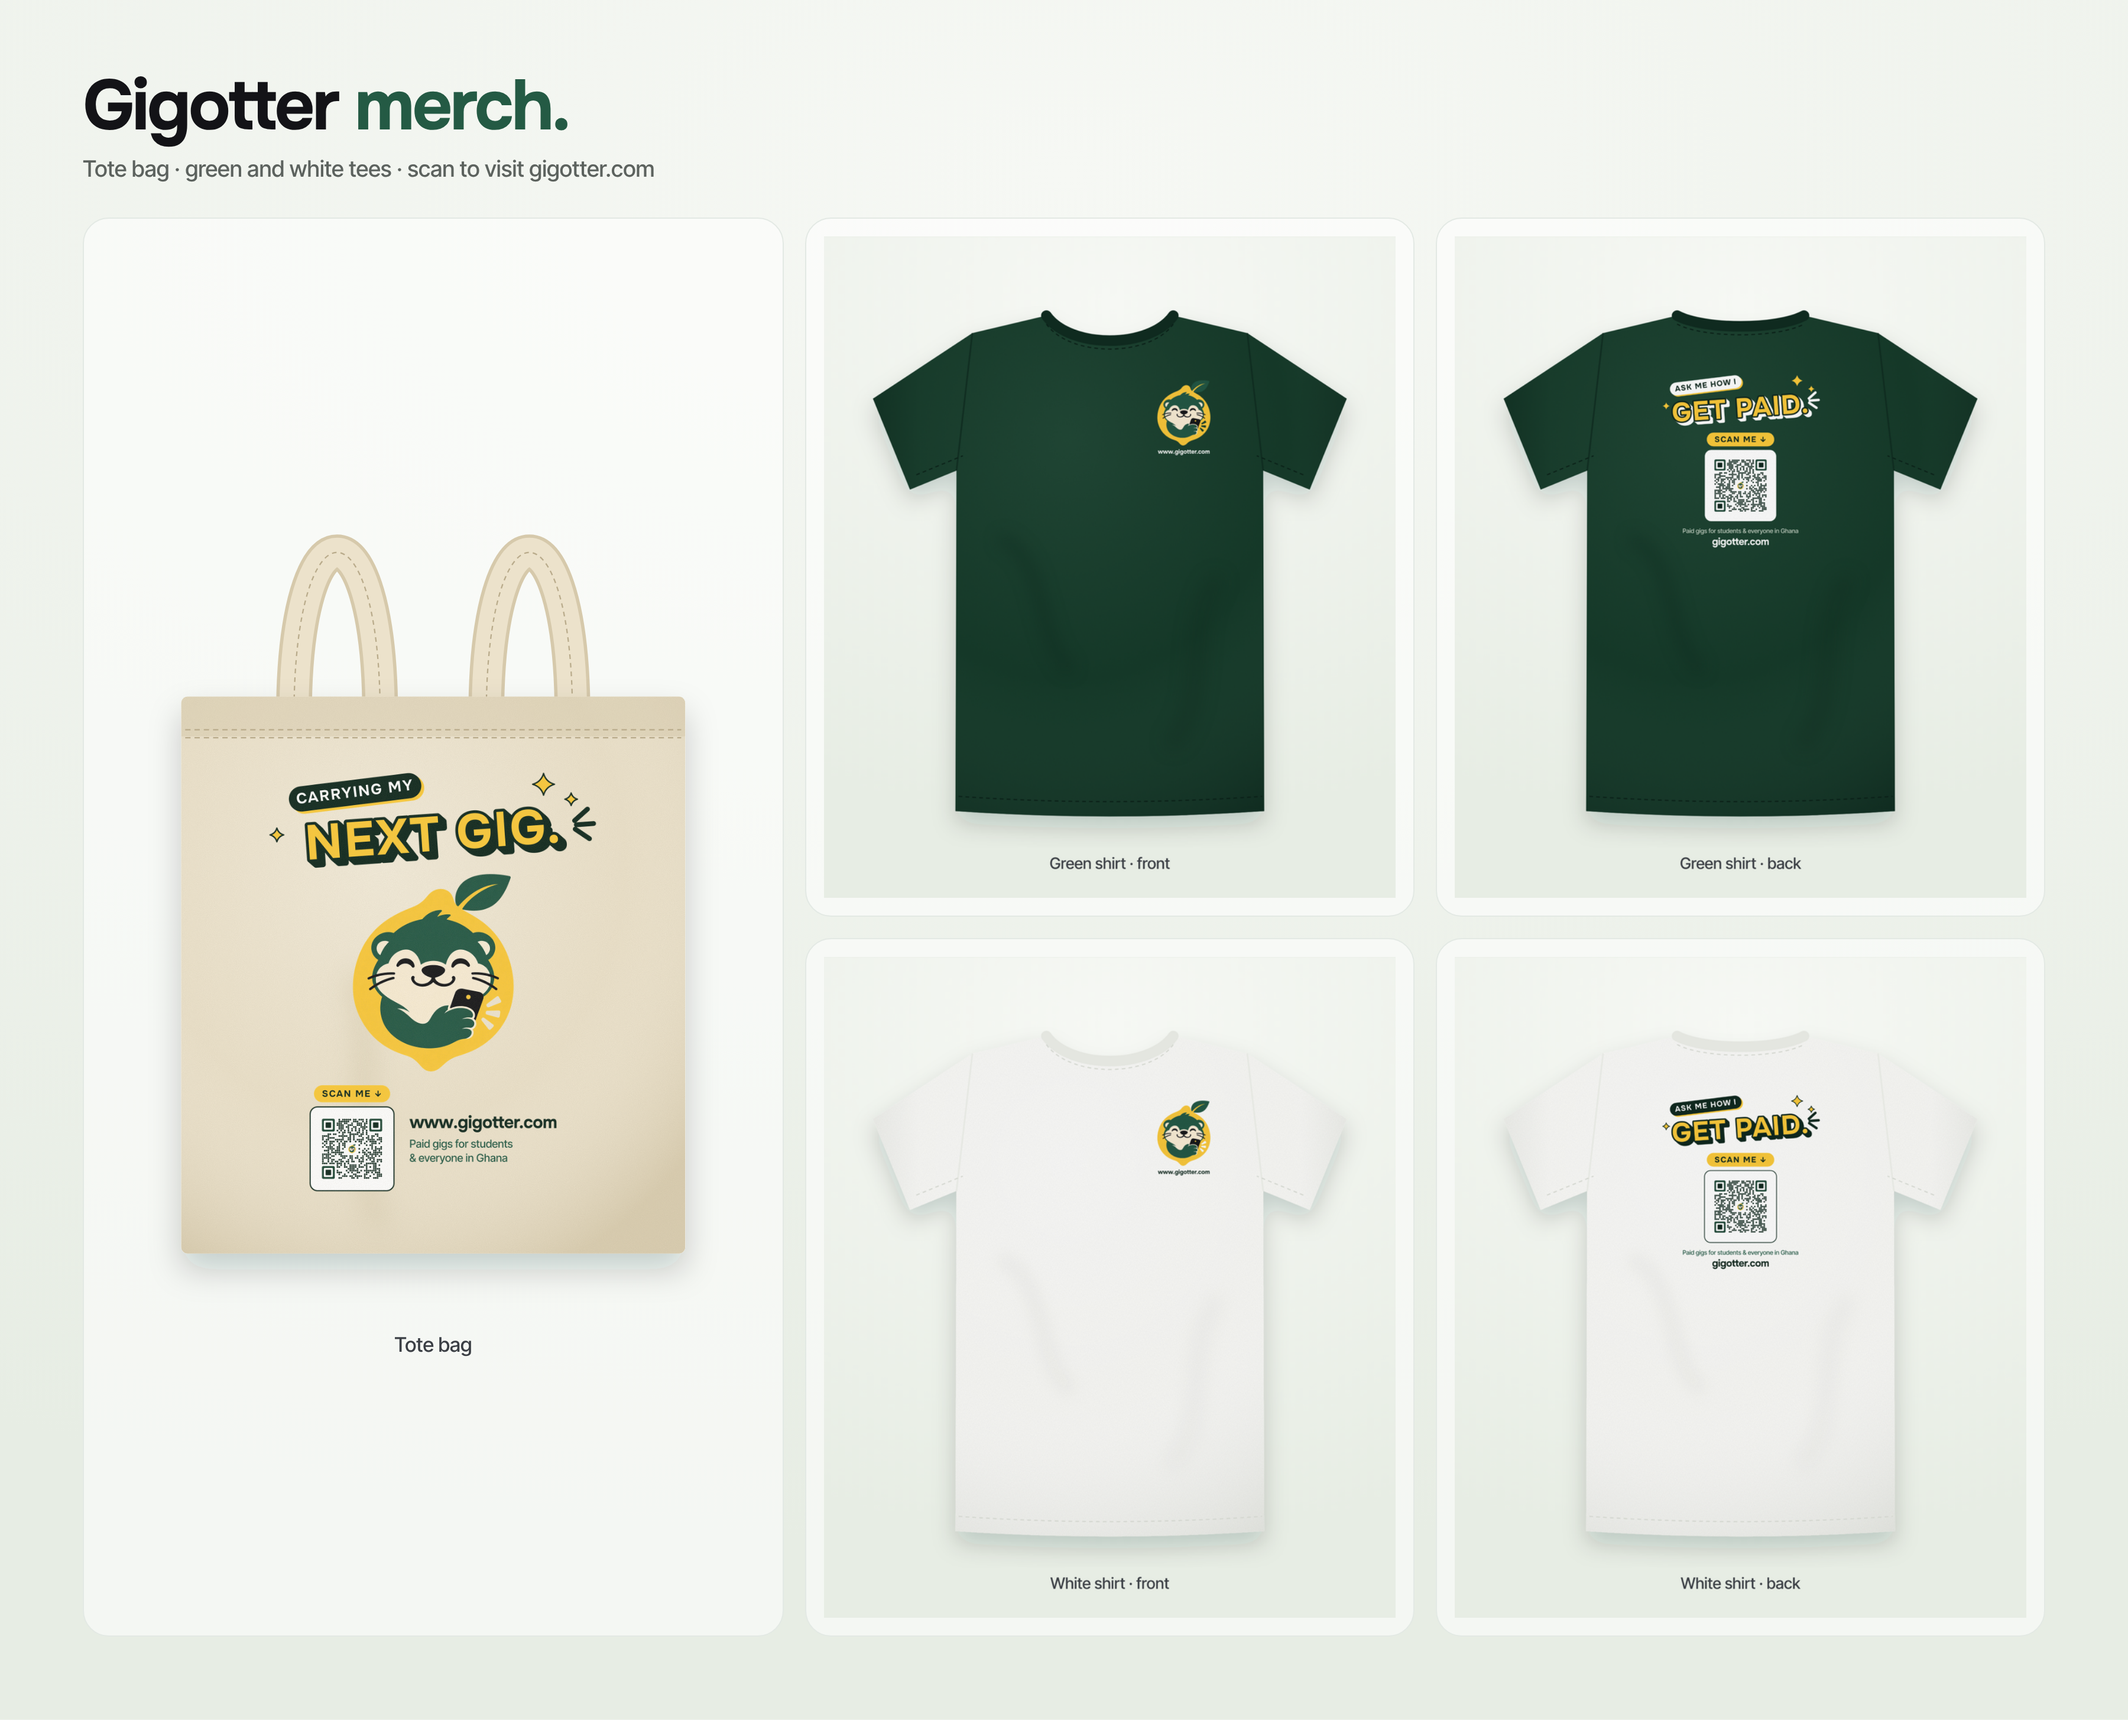
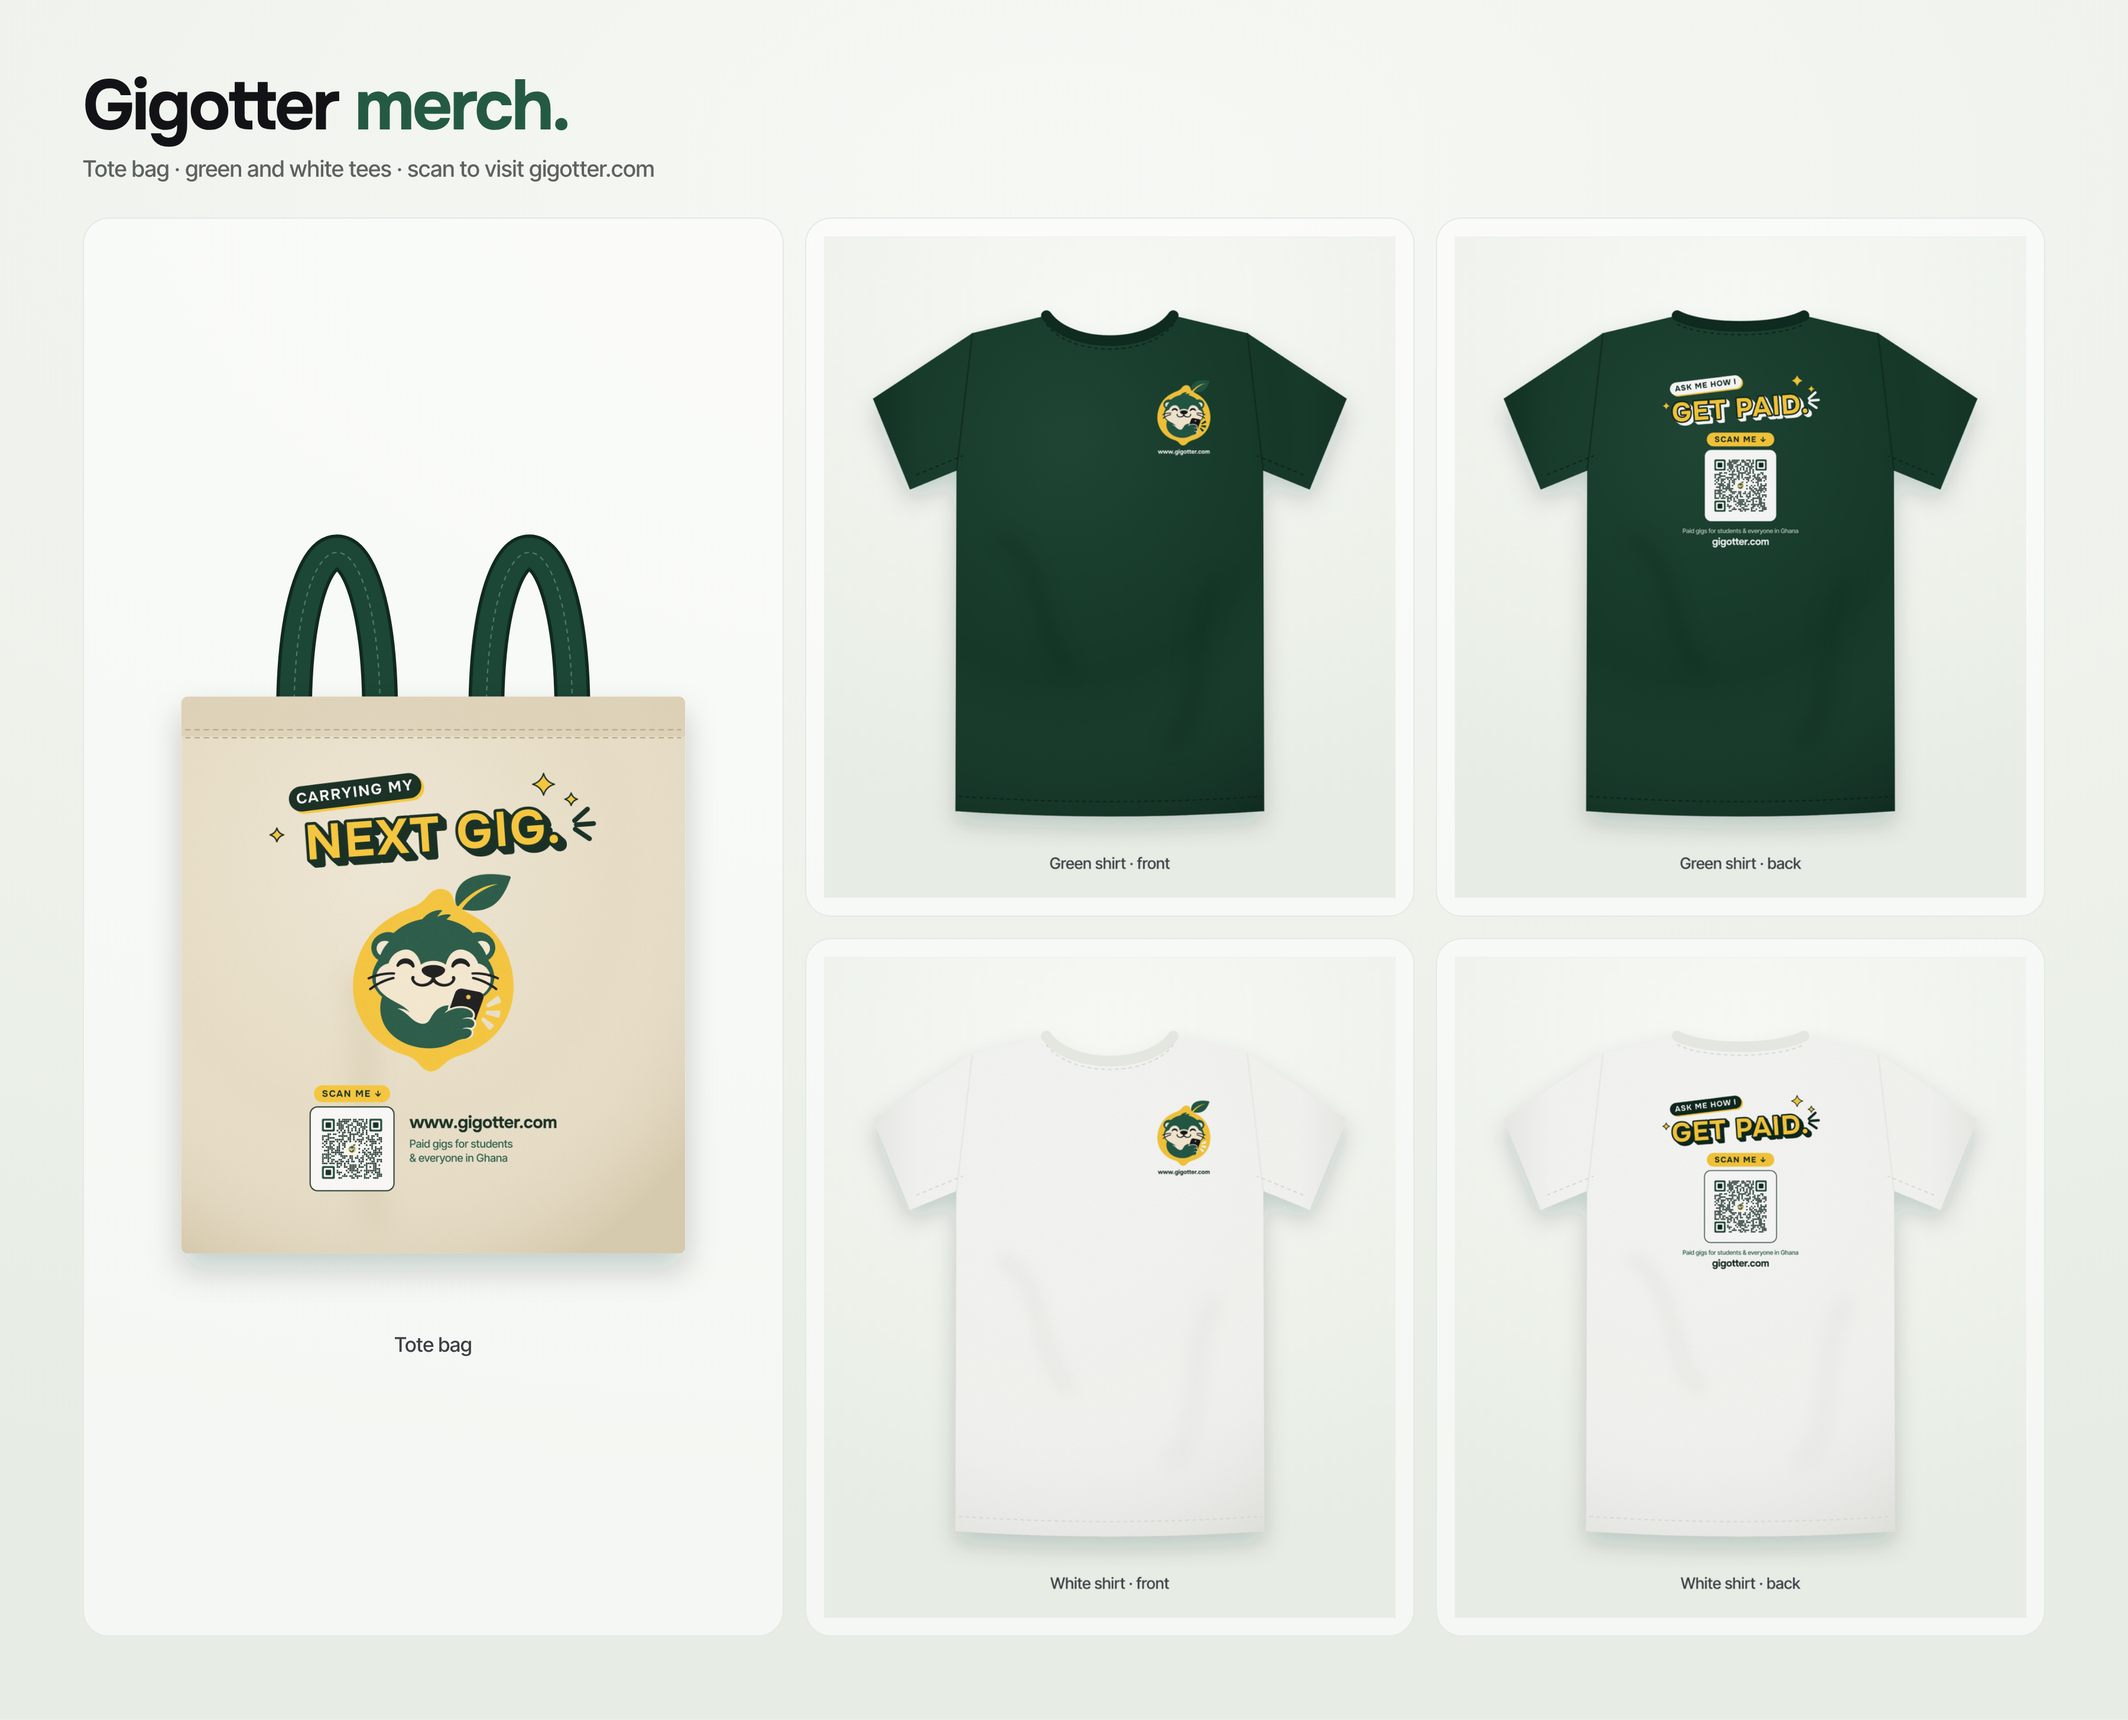
Tote mockup: deep green handles
Claude-Session: https://claude.ai/code/session_01E2vaLUqDfRKS7n3VPqTwzA

Changed region(s): [[0.2178, 0.3093, 0.28, 0.4021], [0.1244, 0.3093, 0.1867, 0.4021]]

diff --git a/docs/brand/tote/build/mockup.py b/docs/brand/tote/build/mockup.py
@@ -16,13 +16,14 @@ ART, ART_R = uri(OUT / 'dtf-tote-canvas.png', 1300)
 U = 20                                   # units per cm: tote body 38 cm = 760 units
 X0, Y0, BW, BH = 120, 300, 38 * U, 42 * U
 CANVAS, SHADE, HI, STITCH = '#ECE2CB', '#D6C9AB', '#F7F1E2', '#B9AB8B'
+H_GREEN, H_SHADE, H_STITCH = '#1C4635', '#10291F', '#4E7A63'   # green handles
 
 def tote(uid):
     aw = 26 * U; ah = aw * ART_R; ax = X0 + (BW - aw) / 2; ay = Y0 + (BH - ah) / 2 + 8
     strap = lambda x1, x2: f'M{x1} {Y0 + 30} C{x1} {Y0 - 300} {x2} {Y0 - 300} {x2} {Y0 + 30}'
-    straps = ''.join(f'<path d="{strap(a, b)}" stroke="{SHADE}" stroke-width="54" fill="none" stroke-linecap="round"/>'
-                     f'<path d="{strap(a, b)}" stroke="{CANVAS}" stroke-width="44" fill="none" stroke-linecap="round"/>'
-                     f'<path d="{strap(a, b)}" stroke="{STITCH}" stroke-width="2" stroke-dasharray="7 6" fill="none" transform="translate(0 0)"/>'
+    straps = ''.join(f'<path d="{strap(a, b)}" stroke="{H_SHADE}" stroke-width="54" fill="none" stroke-linecap="round"/>'
+                     f'<path d="{strap(a, b)}" stroke="{H_GREEN}" stroke-width="44" fill="none" stroke-linecap="round"/>'
+                     f'<path d="{strap(a, b)}" stroke="{H_STITCH}" stroke-width="2" stroke-dasharray="7 6" fill="none" transform="translate(0 0)"/>'
                      for a, b in ((X0 + 170, X0 + 300), (X0 + BW - 300, X0 + BW - 170)))
     return f"""<svg viewBox="0 0 1000 1250" xmlns="http://www.w3.org/2000/svg">
 <defs>

diff --git a/docs/brand/tote/README.md b/docs/brand/tote/README.md
@@ -1,6 +1,6 @@
 # Gigotter tote bag: DTF print file
 
-Natural canvas tote, printed on **one side**. Design: a tilted "CARRYING MY" sticker over a 3D "NEXT GIG.", the big otter logo, and a "SCAN ME" QR code to **https://gigotter.com** with www.gigotter.com and "Paid gigs for students & everyone in Ghana".
+Natural canvas tote with **deep green handles** (order the bag with green handles; the print is the same), printed on **one side**. Design: a tilted "CARRYING MY" sticker over a 3D "NEXT GIG.", the big otter logo, and a "SCAN ME" QR code to **https://gigotter.com** with www.gigotter.com and "Paid gigs for students & everyone in Ghana".
 
 ## Files for the print shop
 | File | Print size | Placement |
